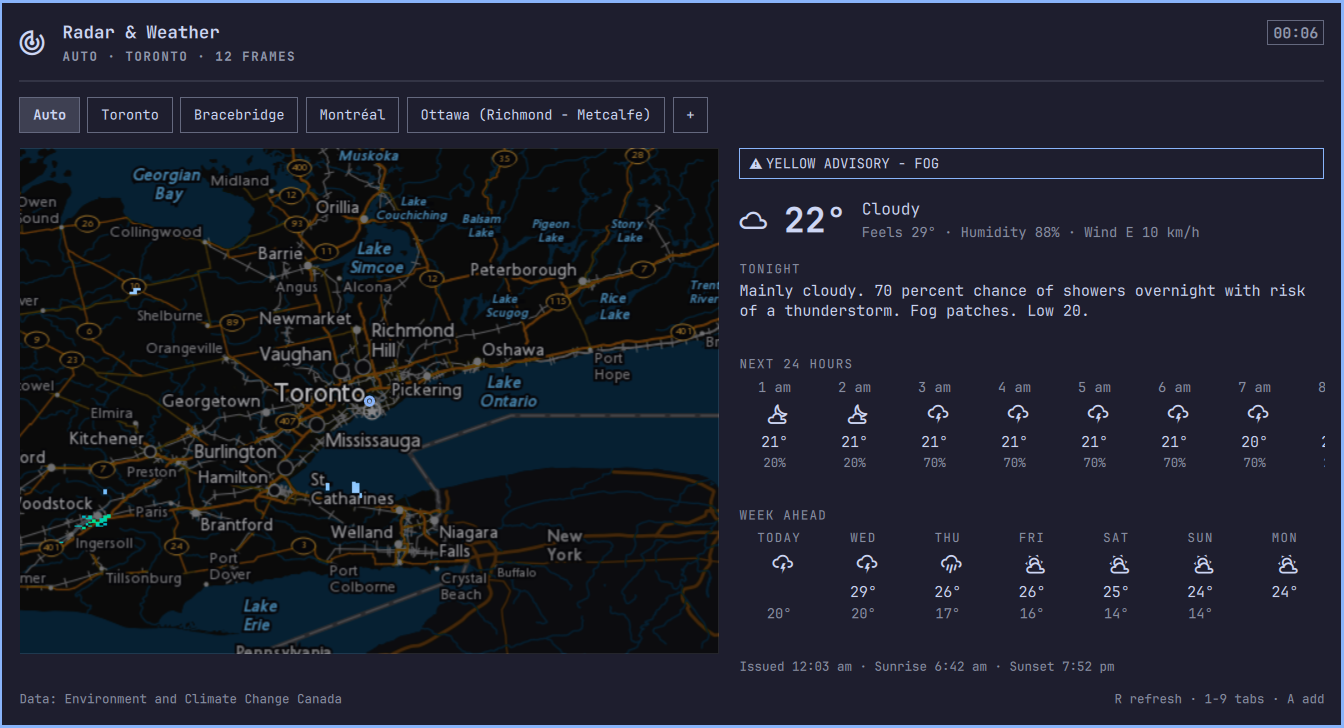
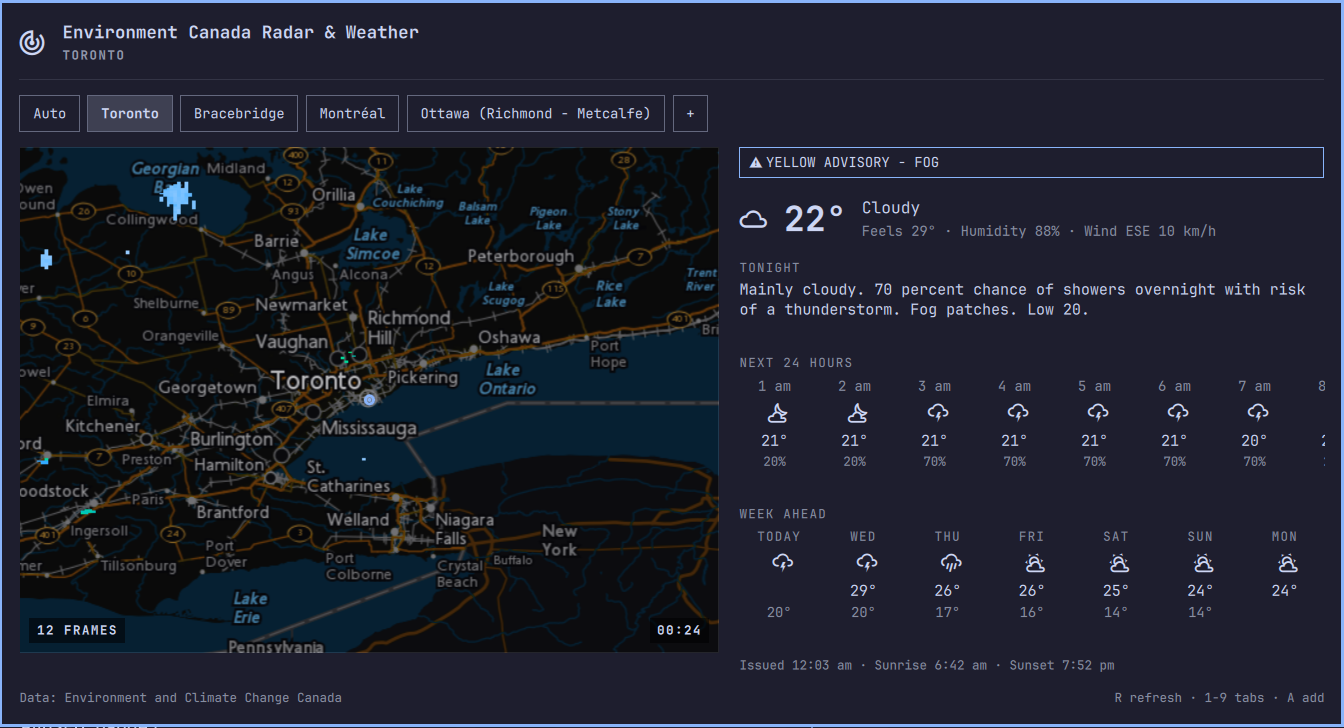
Overlay frame count and timestamp as chips on the radar map
Prepend "Environment Canada" to the panel title, drop the frame count
and timestamp from the hero/status line, and render them instead as
PAUSED-style chips in the map's bottom-left and bottom-right corners.
Refresh the README screenshot to match.

diff --git a/Panel.qml b/Panel.qml
@@ -542,11 +542,18 @@ Panel {
 
   readonly property string statusNote: {
     if (!hasLocation) return autoFixFailed ? "Location unavailable — R retries" : "Locating…"
-    if (frameTimes.length === 0) return fetchFailed ? "Radar unavailable" : "Loading radar…"
-    if (!framesSettled) return "Loading frames " + (framesLoaded + framesFailed) + "/" + frameTimes.length
-    if (fetchFailed) return "Offline — showing last loop"
-    if (framesFailed > 0) return framesFailed + " frame(s) unavailable"
-    return (autoActive ? "AUTO · " : "") + activeName.toUpperCase() + " · " + frameTimes.length + " frames"
+    var name = (autoActive ? "AUTO · " : "") + activeName.toUpperCase()
+    if (frameTimes.length === 0) return name + (fetchFailed ? " · Radar unavailable" : " · Loading radar…")
+    if (fetchFailed) return name + " · Offline — showing last loop"
+    if (framesFailed > 0) return name + " · " + framesFailed + " frame(s) unavailable"
+    return name
+  }
+
+  // Frame count / loading progress, shown as a chip on the map itself.
+  readonly property string framesChip: {
+    if (frameTimes.length === 0) return ""
+    if (!framesSettled) return "LOADING " + (framesLoaded + framesFailed) + "/" + frameTimes.length
+    return frameTimes.length + " FRAMES"
   }
 
   readonly property var tabOptions: {
@@ -741,9 +748,8 @@ Panel {
 
         PanelHero {
           width: parent.width
-          title: "Radar & Weather"
+          title: "Environment Canada Radar & Weather"
           meta: root.statusNote
-          detail: root.frameLabel
           foreground: root.foreground
           fontFamily: root.fontFamily
 
@@ -977,6 +983,52 @@ Panel {
                 id: pausedLabel
                 anchors.centerIn: parent
                 text: "PAUSED"
+                color: root.foreground
+                font.family: root.fontFamily
+                font.pixelSize: Style.font.caption
+                font.bold: true
+                font.letterSpacing: 1.2
+              }
+            }
+
+            // Frame-count chip, bottom left of the map.
+            Rectangle {
+              visible: root.hasLocation && root.framesChip !== ""
+              anchors.bottom: parent.bottom
+              anchors.left: parent.left
+              anchors.margins: Style.space(8)
+              width: framesChipLabel.implicitWidth + Style.space(12)
+              height: framesChipLabel.implicitHeight + Style.space(6)
+              radius: Style.cornerRadius
+              color: Qt.rgba(0, 0, 0, 0.55)
+
+              Text {
+                id: framesChipLabel
+                anchors.centerIn: parent
+                text: root.framesChip
+                color: root.foreground
+                font.family: root.fontFamily
+                font.pixelSize: Style.font.caption
+                font.bold: true
+                font.letterSpacing: 1.2
+              }
+            }
+
+            // Timestamp of the frame on screen, bottom right of the map.
+            Rectangle {
+              visible: root.hasLocation && root.frameLabel !== ""
+              anchors.bottom: parent.bottom
+              anchors.right: parent.right
+              anchors.margins: Style.space(8)
+              width: frameLabelChip.implicitWidth + Style.space(12)
+              height: frameLabelChip.implicitHeight + Style.space(6)
+              radius: Style.cornerRadius
+              color: Qt.rgba(0, 0, 0, 0.55)
+
+              Text {
+                id: frameLabelChip
+                anchors.centerIn: parent
+                text: root.frameLabel
                 color: root.foreground
                 font.family: root.fontFamily
                 font.pixelSize: Style.font.caption
